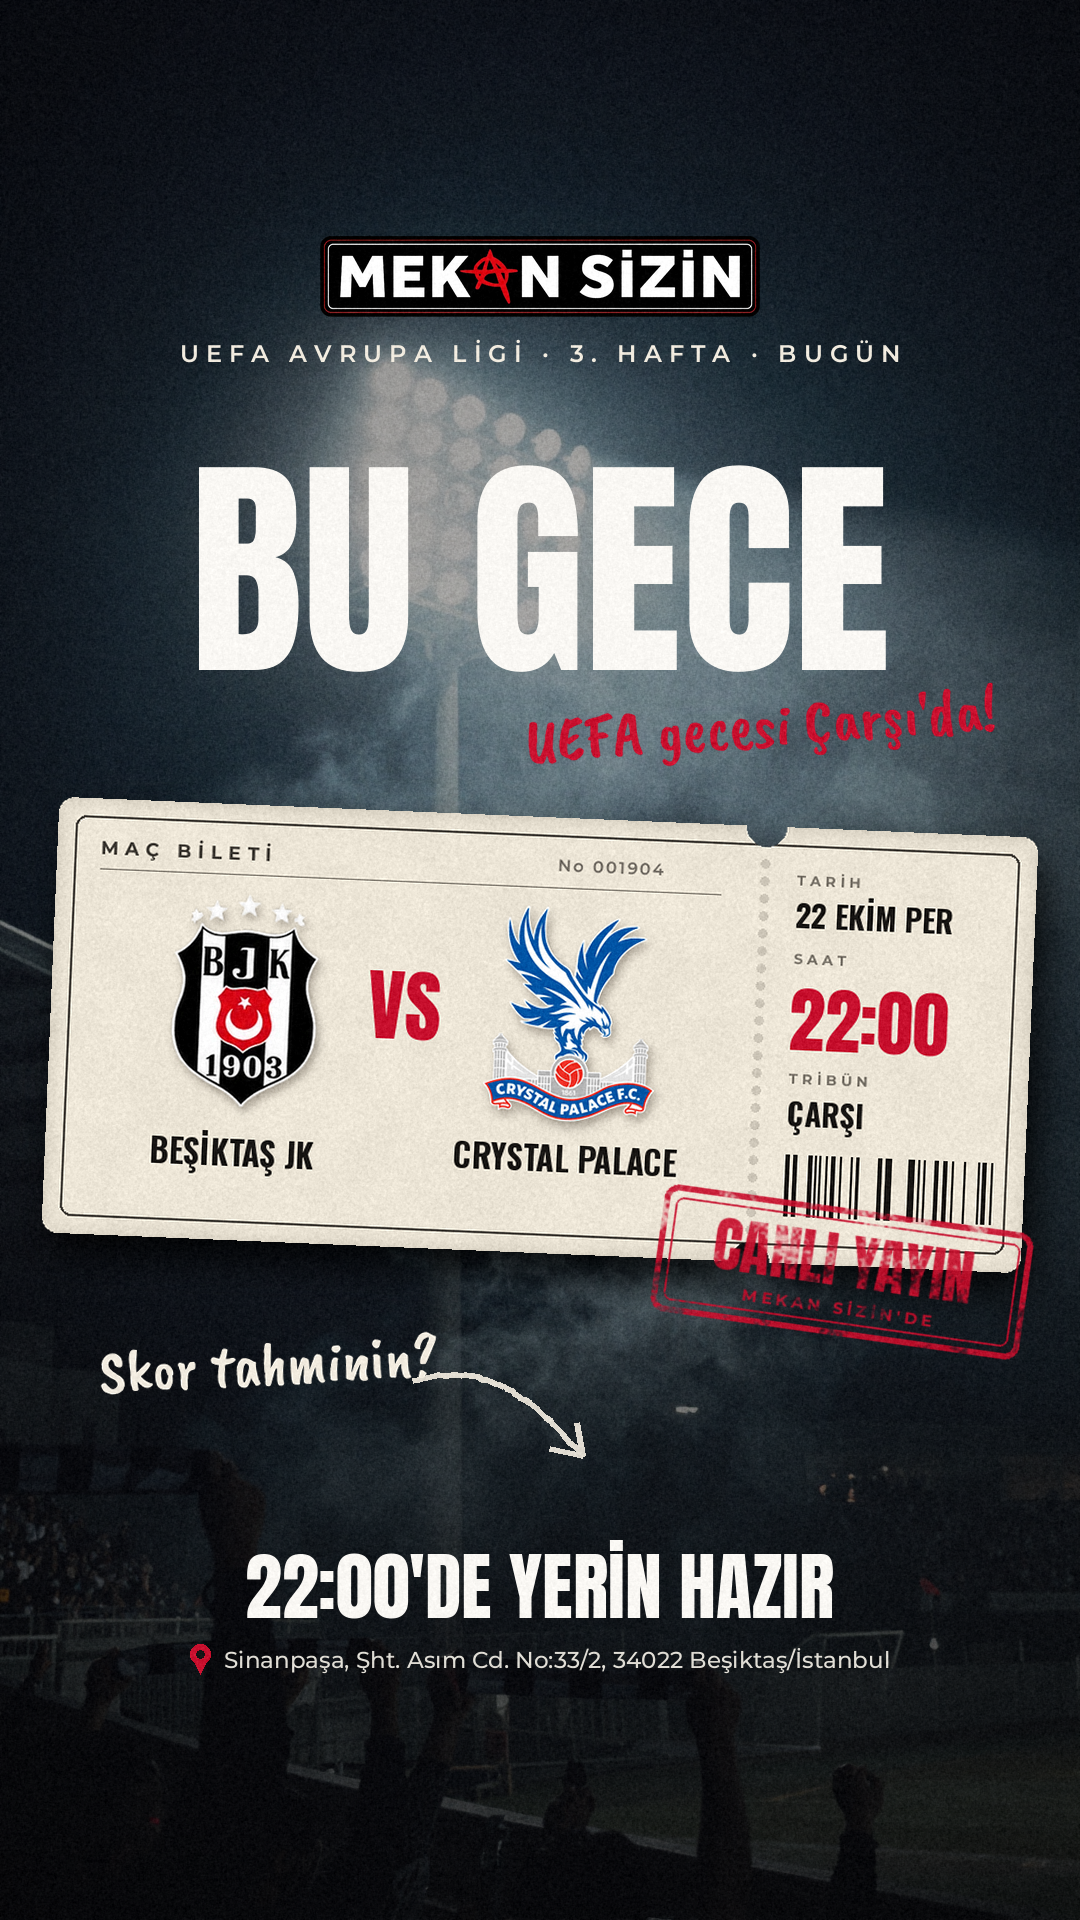
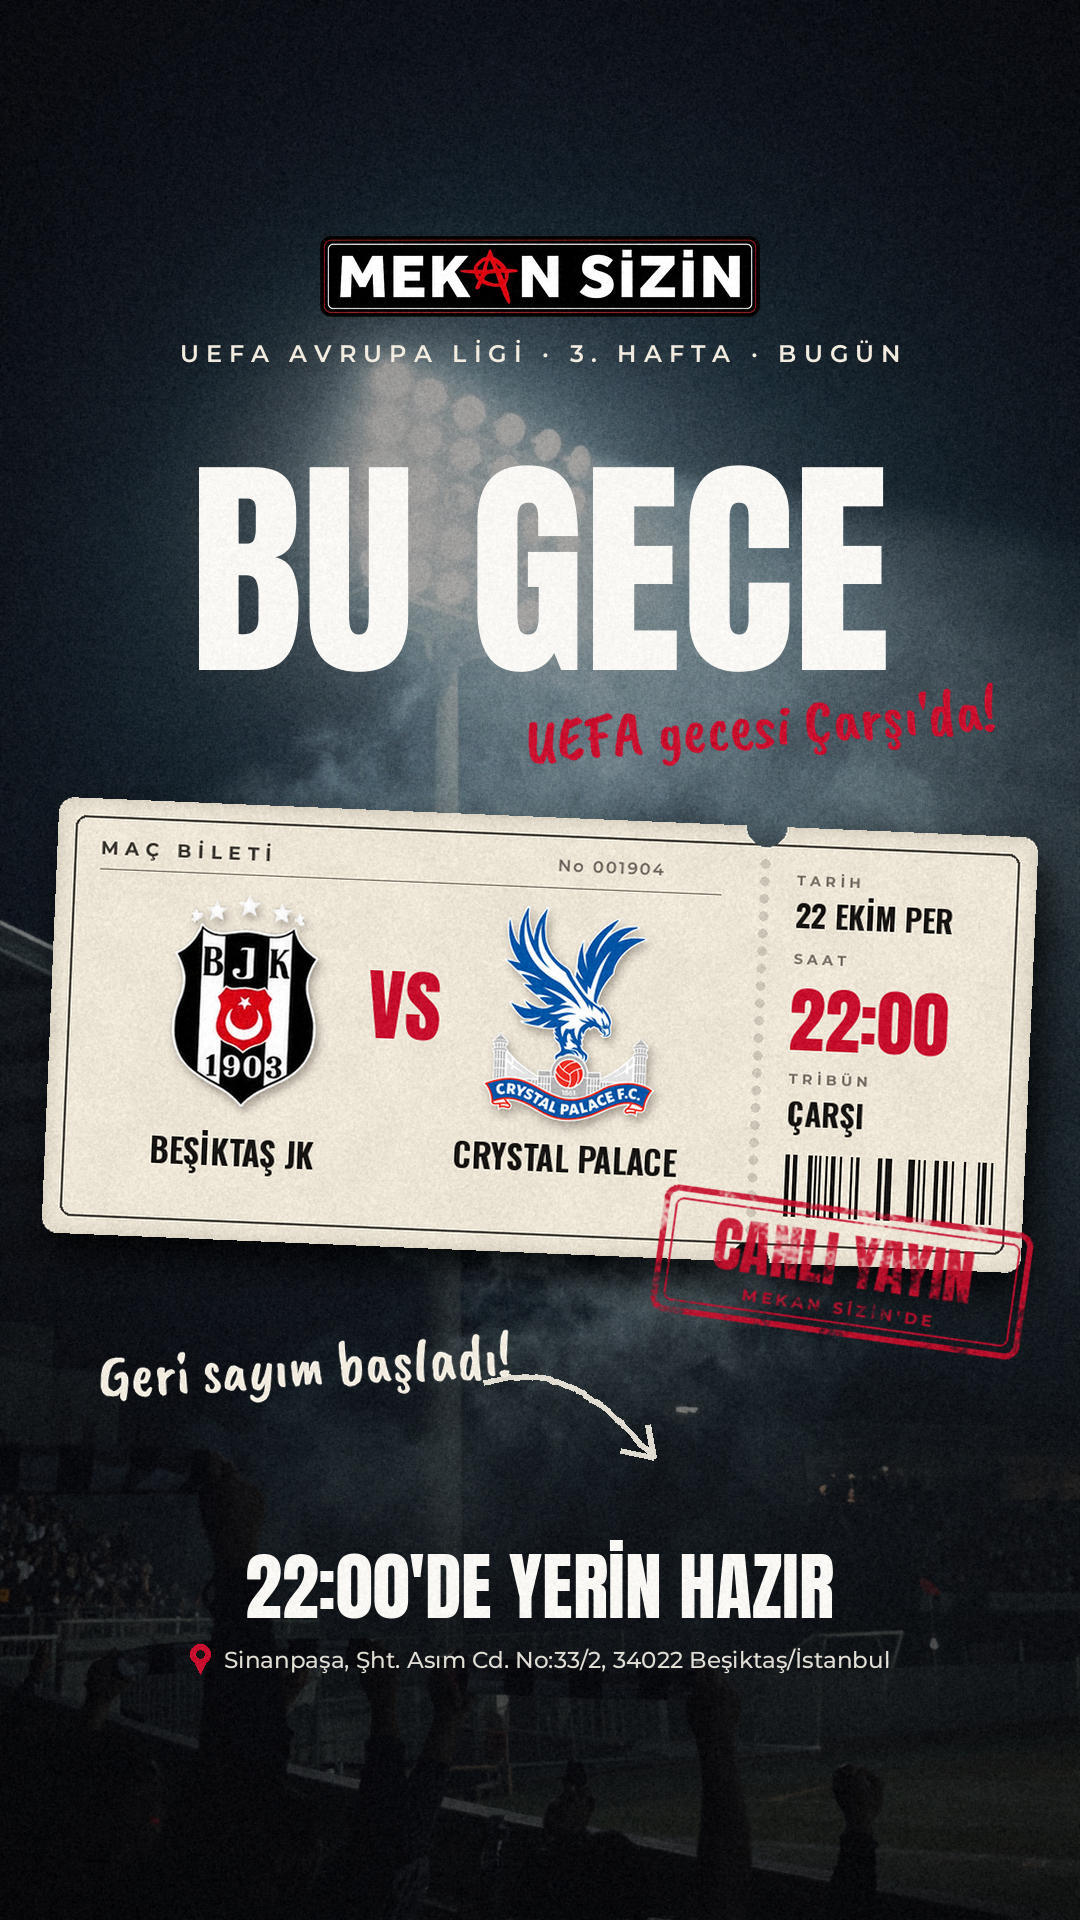
Use the venue's new meze photos in Mekan Sizin week 2 and drop guessing prompts
The best take of each dish is kept under kaynak/ham; rotus.py clones the
plate's own texture over two oil drops, then the week 1 grade is applied.
The duplicate pistachio photo (already on the profile) is replaced. The
match-day scoreboard shows 0-0 instead of '?', stories point at a countdown
and the post-match story no longer asks for score guesses; captions are
rewritten in a relaxed, semi-professional tone with DM booking as the only ask.

Claude-Session: https://claude.ai/code/session_01XJxz6TxayURknP2UowWRAx

Changed region(s): [[0.0917, 0.6875, 0.5806, 0.7812], [0.5806, 0.75, 0.6111, 0.7812]]

diff --git a/mekan-sizin/sablon/rotus.py b/mekan-sizin/sablon/rotus.py
@@ -1,0 +1,67 @@
+"""Mekan Sizin - ham fotoğraflarda küçük leke temizliği (yağ damlası, kırıntı), doğallığı bozmadan.
+
+Kullanım:  python3 rotus.py rotus.json
+Her kayıt: {"kaynak": ham foto, "cikti": temiz foto, "lekeler": [[x, y, yarıçap], ...]} (piksel, kaynak üzerinde).
+Her leke için yakındaki en uygun temiz doku aranır (çevre halkası en çok benzeyen yer) ve yumuşak kenarla
+üstüne kopyalanır; tabak sırrının benekli dokusu korunur, geri kalan her piksel aynen kalır.
+"""
+import json
+import sys
+
+import numpy as np
+from PIL import Image
+
+from mac_bileti import path
+
+
+def best_source(arr, x, y, r):
+    """Offset of the nearby patch whose surrounding ring looks most like the ring around the spot."""
+    h, w = arr.shape[:2]
+    R = round(r * 1.6)
+    yy, xx = np.mgrid[-R:R + 1, -R:R + 1]
+    dist = np.hypot(xx, yy)
+    ring = (dist > r * 1.15) & (dist <= R)
+    tgt = arr[y - R:y + R + 1, x - R:x + R + 1].astype(np.float32)
+    best, best_d = None, None
+    step = max(2, round(r / 3))
+    for dy in range(-4 * R, 4 * R + 1, step):
+        for dx in range(-4 * R, 4 * R + 1, step):
+            if np.hypot(dx, dy) < 2.2 * R:
+                continue
+            sx, sy = x + dx, y + dy
+            if sx - R < 0 or sy - R < 0 or sx + R >= w or sy + R >= h:
+                continue
+            src = arr[sy - R:sy + R + 1, sx - R:sx + R + 1].astype(np.float32)
+            d = float(((src - tgt)[ring] ** 2).mean())
+            if best_d is None or d < best_d:
+                best, best_d = (dx, dy), d
+    return best
+
+
+def clean(img, spots):
+    arr = np.asarray(img.convert("RGB")).copy()
+    out = arr.astype(np.float32)
+    for x, y, r in spots:
+        x, y, r = round(x), round(y), float(r)
+        dx, dy = best_source(arr, x, y, r)
+        R = round(r * 1.6)
+        yy, xx = np.mgrid[-R:R + 1, -R:R + 1]
+        m = np.clip((r * 1.35 - np.hypot(xx, yy)) / (r * 0.35), 0, 1)[..., None]  # soft-edged disc
+        src = arr[y + dy - R:y + dy + R + 1, x + dx - R:x + dx + R + 1].astype(np.float32)
+        tgt = out[y - R:y + R + 1, x - R:x + R + 1]
+        out[y - R:y + R + 1, x - R:x + R + 1] = tgt * (1 - m) + src * m
+    return Image.fromarray(np.clip(out, 0, 255).astype(np.uint8))
+
+
+def main():
+    with open(sys.argv[1], encoding="utf-8") as fh:
+        items = json.load(fh)
+    for item in items:
+        img = Image.open(path(item["kaynak"]))
+        out = clean(img, item.get("lekeler", [])) if item.get("lekeler") else img.convert("RGB")
+        out.save(path(item["cikti"]), quality=95, subsampling=0)
+        print("kaydedildi:", path(item["cikti"]), f"({len(item.get('lekeler', []))} leke)")
+
+
+if __name__ == "__main__":
+    main()

diff --git a/mekan-sizin/sablon/mac_sonu.py b/mekan-sizin/sablon/mac_sonu.py
@@ -3,8 +3,7 @@
 Kullanım:  python3 mac_sonu.py mac-sonu.json EV_SKOR DEPLASMAN_SKOR
 Örnek:     python3 mac_sonu.py ../haftalik-feed-2/ayarlar/1b-trabzonspor-mac-sonu.json 1 2
 "bjk" alanı Beşiktaş'ın hangi satırda olduğunu söyler ("ev_sahibi" ya da "deplasman"); mesaj buna göre
-"galibiyet", "beraberlik" ya da "maglubiyet" olarak seçilir. Alttaki boşluk doğru tahmin edenleri
-etiketlemek için bırakıldı (Instagram'da "Bahset" çıkartması).
+"galibiyet", "beraberlik" ya da "maglubiyet" olarak seçilir. En alttaki el yazısı satırı "cikartma_notu"; "ok": false ise yanına ok çizilmez.
 """
 import json
 import sys
@@ -83,7 +82,8 @@ def main():
     note = handwriting(cfg["cikartma_notu"], 60, CREAM, 3)
     ny = by2 + 218
     img.alpha_composite(note, (86, ny))
-    img.alpha_composite(hand_arrow((210, 120), CREAM), (96 + note.width - 60, ny + note.height // 2))
+    if cfg.get("ok", True):  # arrow pointing at the empty sticker space
+        img.alpha_composite(hand_arrow((210, 120), CREAM), (96 + note.width - 60, ny + note.height // 2))
 
     out = film_grain(img.convert("RGB"), 7.5, seed=9)
     out.save(path(cfg["cikti"]))

diff --git a/mekan-sizin/haftalik-feed-2/PAYLASIM-PLANI.md b/mekan-sizin/haftalik-feed-2/PAYLASIM-PLANI.md
@@ -1,32 +1,31 @@
 # Mekan Sizin – Haftalık Feed 2 (19–25 Ekim 2026)
 
-İlk haftanın düzeni aynen devam ediyor: profilde afiş ve fotoğraf birebir sırayla geliyor (son gönderi Deplasman afişiydi, bu hafta fotoğrafla başlıyor). Maç sonu gönderisi ızgarayı bozmasın diye story olarak paylaşılıyor. 7 gönderi + maç günü ve maç sonu story'leri. Afişler ilk haftanın şablonlarıyla; fotoğraf günleri mekânın yeni görselleriyle doldurulacak.
+İlk haftanın düzeni aynen devam ediyor: profilde afiş ve fotoğraf birebir sırayla geliyor (son gönderi Deplasman afişiydi, bu hafta fotoğrafla başlıyor). Maç sonu gönderisi ızgarayı bozmasın diye story olarak paylaşılıyor. 7 gönderi + maç günü ve maç sonu story'leri.
+
+**Dil:** Biraz profesyonel, biraz salaş. Takipçi sayısı henüz az olduğu için gönderilerde skor tahmini, "yorumlara yaz", "etiketle", "doğru bileni paylaşacağız" gibi katılım istekleri yok; ileride takipçi artınca açılabilir. Tek çağrı rezervasyon: DM.
 
 ## Sıra
 
 | Gün | Tarih | Saat | Paylaşım | Tür | Dosya (`sirali/`) |
 |---|---|---|---|---|---|
-| 1 | Pazartesi 19 Ekim | 13:00 | Fıstıklı meze fotoğrafı (profilde henüz yok) | Fotoğraf | `1-pazartesi-19-ekim-meze-fistikli.jpg` |
-| 1 | Pazartesi 19 Ekim | 14:00 ve 19:30 | Story: Trabzonspor – BJK maç günü + "Skor tahminin?" | Story | `1-story-pazartesi-19-ekim-trabzonspor-mac-gunu.png` |
-| 1 | Pazartesi 19 Ekim | maçtan hemen sonra | Story: Maç sonu (skorbordda gerçek skor, sonuca göre mesaj) | Story | `1-story-pazartesi-19-ekim-mac-sonu-trabzonspor.png` |
+| 1 | Pazartesi 19 Ekim | maçtan önce | Arnavut ciğeri + şakşuka | Fotoğraf | `1-pazartesi-19-ekim-arnavut-cigeri-saksuka.jpg` |
+| 1 | Pazartesi 19 Ekim | 14:00 ve 19:30 | Story: Trabzonspor – BJK maç günü + Geri sayım | Story | `1-story-pazartesi-19-ekim-trabzonspor-mac-gunu.png` |
+| 1 | Pazartesi 19 Ekim | maçtan hemen sonra | Story: Maç sonu (gerçek skor, sonuca göre mesaj) | Story | `1-story-pazartesi-19-ekim-mac-sonu-trabzonspor.png` |
 | 2 | Salı 20 Ekim | 19:00 | "BU PERŞEMBE" maç bileti: Beşiktaş – Crystal Palace (UEFA) | Afiş | `2-sali-20-ekim-uefa-gecesi-crystal-palace.png` |
-| 3 | Çarşamba 21 Ekim | 13:00 | Mekan / meze fotoğrafı (yeni görsel 2) | Fotoğraf | `3-carsamba-21-ekim-mekan-fotografi.jpg` |
-| 4 | Perşembe 22 Ekim | 17:00 | Skor tahmini: Beşiktaş – Crystal Palace (maç günü) | Afiş | `4-persembe-22-ekim-skor-tahmini-crystal-palace.png` |
-| 4 | Perşembe 22 Ekim | 12:00 ve 20:00 | Story: UEFA maç günü | Story | `4-story-persembe-22-ekim-uefa-mac-gunu.png` |
-| 5 | Cuma 23 Ekim | 18:00 | Mekan / meze fotoğrafı ya da Reels (yeni görsel 3) | Fotoğraf | `5-cuma-23-ekim-mekan-fotografi.jpg` |
+| 3 | Çarşamba 21 Ekim | 13:00 | Labne, kuru biber ve kızgın yağ | Fotoğraf | `3-carsamba-21-ekim-labne.jpg` |
+| 4 | Perşembe 22 Ekim | 17:00 | "BU GECE" maç günü skorbordu (0–0): Beşiktaş – Crystal Palace | Afiş | `4-persembe-22-ekim-mac-gunu-crystal-palace.png` |
+| 4 | Perşembe 22 Ekim | 12:00 ve 20:00 | Story: UEFA maç günü + Geri sayım | Story | `4-story-persembe-22-ekim-uefa-mac-gunu.png` |
+| 5 | Cuma 23 Ekim | 18:00 | Yeşil meze, çıtır yufka | Fotoğraf | `5-cuma-23-ekim-yesil-meze.jpg` |
 | 6 | Cumartesi 24 Ekim | 19:00 | "BU PAZARTESİ" maç bileti: Beşiktaş – Başakşehir | Afiş | `6-cumartesi-24-ekim-bu-pazartesi-basaksehir.png` |
-| 7 | Pazar 25 Ekim | 13:00 | Mekan / meze fotoğrafı (yeni görsel 4) | Fotoğraf | `7-pazar-25-ekim-mekan-fotografi.jpg` |
+| 7 | Pazar 25 Ekim | 13:00 | Cacık, bol zeytinyağı | Fotoğraf | `7-pazar-25-ekim-cacik.jpg` |
+
+**Yedekte:** tek tabak Arnavut ciğeri (`yedek-arnavut-cigeri.jpg`) ve tek tabak şakşuka (`yedek-saksuka.jpg`), aynı renk ayarıyla hazır; story'de ya da gelecek hafta kullanılabilir.
 
 **Fikstür:** Trabzonspor – Beşiktaş 19 Ekim Pazartesi 20:00 (Süper Lig 8. hafta, Papara Park); Beşiktaş – Crystal Palace 22 Ekim Perşembe 22:00 (UEFA Avrupa Ligi 3. hafta, Tüpraş Stadyumu); Beşiktaş – Başakşehir 26 Ekim Pazartesi 19:00 (Süper Lig 9. hafta, Tüpraş Stadyumu). Başakşehir maçının saati yayın programı sitelerinden; Cumartesi paylaşmadan önce resmi programdan teyit edin.
 
-## Eksikler
+## Fotoğraflar
 
-Armalar geldi (`sablon/assets/trabzonspor.png`, `crystal-palace.png`, `basaksehir.png`); bütün afiş ve story'ler hazır.
-
-| Eksik | Nereye | Kullanıldığı gönderiler |
-|---|---|---|
-| Maç sonu skoru (bu akşam) | `python3 mac_sonu.py … TS_SKOR BJK_SKOR` | Gün 1 maç sonu story'si |
-| 3 yeni mekan / meze görseli | `haftalik-feed-2/kaynak/yeni-2.jpg` … `yeni-4.jpg` | Gün 3, 5, 7 |
+Mekânın gönderdiği kareler tabak tabak ayrıldı, her tabağın en net karesi seçildi (`kaynak/ham/`). Şakşuka tabağının kenarındaki iki yağ damlası tabağın kendi dokusundan kopyalanarak temizlendi (`ayarlar/rotus.json`), başka hiçbir yere dokunulmadı. Sonra ilk haftanın renk ayarı ve greni uygulandı; cacık karesinde köşeye taşan logo parçası kadrajdan çıkarıldı.
 
 ---
 
@@ -34,99 +33,111 @@ Armalar geldi (`sablon/assets/trabzonspor.png`, `crystal-palace.png`, `basaksehi
 
 Her gönderide konum: **Mekan Sizin / Beşiktaş Çarşı**. Hashtag en fazla 5.
 
-### Gün 1 – Mekan fotoğrafı (Pazartesi 13:00)
+### Gün 1 – Arnavut ciğeri + şakşuka (Pazartesi, maçtan önce)
 ```
-Maç günü masası hazır. 🦅
+Ciğer sıcak, şakşuka zeytinyağında, Kartal Trabzon'da. 🦅
 
-Bu akşam 20:00'de Trabzonspor – Beşiktaş canlı yayında. Yerini ayırtmak için DM'den yaz.
+Bu akşam 20:00'de Trabzonspor – Beşiktaş Mekan Sizin'de canlı yayında. Masa kurulu, gelen gelsin.
 
-#Beşiktaş #BeşiktaşÇarşı #Meze #MaçGünü #MekanSizin
+📍 Beşiktaş Çarşı · Rezervasyon için DM
+
+#Beşiktaş #BeşiktaşÇarşı #ArnavutCiğeri #MaçGünü #MekanSizin
 ```
-**Story (14:00):** maç günü story'si + **Soru** çıkartması "Skor tahminin?" · **(19:30):** aynı story + **Geri sayım** (20:00).
-**Maç sonu story'si:** Maç biter bitmez skoru yazın, story hemen üretilir (galibiyet: "Kartal kazandı!", beraberlik: "Bir puan cepte!", mağlubiyet: "Kafamız dik, Çarşı burada!"). Alttaki "Skoru bilenler:" boşluğuna **Bahset** çıkartmasıyla doğru tahmin edenleri ekleyin.
+Maç başladıktan sonra paylaşırsanız ikinci satırı şöyle değiştirin: "Maç başladı, Trabzonspor – Beşiktaş Mekan Sizin'de canlı yayında."
+Alternatif metin: Gazete kupürlü masada iki tabak: soğan salatalı Arnavut ciğeri ve sivri biberli şakşuka.
+
+**Story (14:00 ve 19:30):** maç günü story'si + **Geri sayım** çıkartması (20:00) + konum.
+**Maç sonu story'si:** Maç biter bitmez skoru yazın, story bir dakikada üretilir. El yazısı sonuca göre: galibiyette "Kartal kazandı!", beraberlikte "Bir puan cepte!", mağlubiyette "Kafamız dik, Çarşı burada!". Altta "Sıradaki: Perşembe 22:00" ve "Perşembe yine buradayız!".
 
 ### Gün 2 – UEFA hatırlatma (Salı 19:00)
 ```
-Perşembe UEFA gecesi, Kartal evinde! 🦅
+Perşembe akşamı Çarşı'da UEFA havası var. ⚫⚪
 
 Beşiktaş – Crystal Palace
-UEFA Avrupa Ligi · 3. hafta · 22 Ekim Perşembe 22:00
+UEFA Avrupa Ligi · 3. hafta · 22 Ekim Perşembe · 22:00
 
-Maç canlı yayında, tribün havası Mekan Sizin'de. Yerini ayırtmak için DM'den yaz.
+Maç canlı yayında; mezeler bizden, tezahürat sizden. Masanızı şimdiden ayırtın, DM'den yazmanız yeterli.
 
 #Beşiktaş #UEFAAvrupaLigi #BeşiktaşÇarşı #MaçKeyfi #MekanSizin
 ```
 Alternatif metin: Maç bileti tasarımı: Beşiktaş – Crystal Palace, 22 Ekim Perşembe 22:00, UEFA gecesi Mekan Sizin'de canlı yayında.
 Story: gönderiyi paylaşıp **Geri sayım** (22 Ekim 22:00).
 
-### Gün 3 – Mekan fotoğrafı (Çarşamba 13:00)
+### Gün 3 – Labne (Çarşamba 13:00)
 ```
-Yarın UEFA gecesi; mezeler taze, masan hazır. 🍽
+Labne, üstüne kuru biber ve kızgın yağ. Lafı uzatmaya gerek yok. 🌶
 
-Perşembe kiminle geliyorsun? Etiketle 👇
+Yarın akşam UEFA gecesi; mezeler hazırlanıyor, masalar kuruluyor.
 
-#Meze #MezeKeyfi #BeşiktaşÇarşı #MaçÖncesi #MekanSizin
+📍 Beşiktaş Çarşı · Her gün 12:00–02:00
+
+#Meze #MezeKeyfi #BeşiktaşÇarşı #Beşiktaş #MekanSizin
 ```
+Alternatif metin: Siyah tabakta kuru biberli ve kızgın yağlı labne, gazete kupürlü masada.
 
-### Gün 4 – Skor tahmini (Perşembe 17:00) + maç günü story'si
-**12:00 – Story:** UEFA maç günü story'si + **Soru** "Skor tahminin?"
+### Gün 4 – Maç günü (Perşembe 17:00) + maç günü story'si
+**12:00 – Story:** UEFA maç günü story'si + **Geri sayım** (22:00).
 **17:00 – Gönderi:**
 ```
-Bu gece UEFA gecesi! 🦅
+Skorbord sıfırlandı, mezeler masada. Bu gece UEFA gecesi! 🦅
 
-Beşiktaş – Crystal Palace · 22:00 · canlı yayında
+Beşiktaş – Crystal Palace · 22:00 · Mekan Sizin'de canlı yayında
 
-Skor tahminini yorumlara yaz; maçtan sonra doğru bilenleri story'de paylaşacağız.
+Erken gelen iyi masayı kapar; yerinizi DM'den ayırtabilirsiniz.
 
 #Beşiktaş #BeşiktaşCrystalPalace #UEFAAvrupaLigi #BeşiktaşÇarşı #MekanSizin
 ```
-Alternatif metin: Eski stat skorbordu tasarımı: Beşiktaş ? – ? Crystal Palace, skor tahmini, 22:00.
-**20:00 – Story:** aynı story + **Geri sayım** (22:00). Maçtan sonra doğru tahmin edenleri story'de etiketleyin.
+Alternatif metin: Eski stat skorbordu tasarımı: Beşiktaş 0 – 0 Crystal Palace, başlama 22:00, UEFA gecesi Mekan Sizin'de.
+**20:00 – Story:** aynı story + **Geri sayım** (22:00). Maç sırasında mekândaki tribün havasını kısa videolarla story'de paylaşın.
 
-### Gün 5 – Mekan fotoğrafı / Reels (Cuma 18:00)
+### Gün 5 – Yeşil meze (Cuma 18:00)
 ```
-Cuma akşamı Çarşı'da: mezeler taze, sohbet koyu. ⚫⚪
+Cuma akşamı, yeşilin en güzel tonu masada. 🌿
 
-Hafta sonu planın hazır mı? Yerini DM'den ayırt.
+Haftanın yorgunluğunu Çarşı'da atın; mezeler taze, sohbet koyu, mekân sizin.
+
+📍 Beşiktaş Çarşı · Rezervasyon için DM
 
 #Beşiktaş #BeşiktaşÇarşı #CumaAkşamı #Meze #MekanSizin
 ```
-Yeni görsellerden biri video ise bu günü Reels yapın (trend bir ses seçin).
+Alternatif metin: Desenli yeşil tabakta iki top yeşil meze, üzerlerinde çıtır yufka üçgenleri.
 
 ### Gün 6 – Başakşehir hatırlatma (Cumartesi 19:00)
 ```
-Hafta Kartal'la başlıyor! 🦅
+Yeni hafta Kartal'la açılıyor. 🦅
 
 Beşiktaş – Başakşehir
-Süper Lig · 9. hafta · 26 Ekim Pazartesi 19:00
+Süper Lig · 9. hafta · 26 Ekim Pazartesi · 19:00
 
-Pazartesi akşamı maç canlı yayında; yerini şimdiden DM'den ayırt.
+Pazartesi sendromuna en iyi ilaç: maç, meze, Çarşı. Masanızı şimdiden ayırtın.
 
 #Beşiktaş #BeşiktaşBaşakşehir #BeşiktaşÇarşı #MaçKeyfi #MekanSizin
 ```
 Alternatif metin: Maç bileti tasarımı: Beşiktaş – Başakşehir, 26 Ekim Pazartesi 19:00, maç Mekan Sizin'de canlı yayında.
 
-### Gün 7 – Mekan fotoğrafı (Pazar 13:00)
+### Gün 7 – Cacık (Pazar 13:00)
 ```
-Pazar keyfi Çarşı'da. ☀ 12:00'den 02:00'ye kadar açığız.
+Pazar dediğin sakin geçer: bir tabak cacık, bol zeytinyağı, uzun muhabbet. ☀
 
-Yarın 19:00'da Beşiktaş – Başakşehir; masan hazır.
+12:00'den 02:00'ye açığız. Yarın 19:00'da Beşiktaş – Başakşehir; masa hazır.
 
 #Beşiktaş #BeşiktaşÇarşı #PazarKeyfi #Meze #MekanSizin
 ```
+Alternatif metin: Zeytinyağlı ve ince kıyılmış salatalıklı cacık, gazete kupürlü masada.
 
 ## Dikkat
 
-İlk haftadaki kurallar geçerli: alkol adı/görseli/fiyatı yok, "dev ekran" yazısı yok, UEFA maçları "UEFA gecesi" diye geçiyor, hafta içi kampanyası yok.
+İlk haftadaki kurallar geçerli: alkol adı/görseli/fiyatı yok, "dev ekran" yazısı yok, UEFA maçları "UEFA gecesi" diye geçiyor, hafta içi kampanyası yok. Yemek adları (labne, yeşil meze, cacık) fotoğraflardan tahmin; menüdeki adları farklıysa açıklamalarda değiştirin.
 
 ## Yeniden üretme (`sablon/` klasöründen)
 
 ```
+python3 rotus.py ../haftalik-feed-2/ayarlar/rotus.json
+python3 foto.py ../haftalik-feed-2/ayarlar/fotograflar.json
 python3 story.py ../haftalik-feed-2/ayarlar/1a-trabzonspor-story.json
 python3 mac_sonu.py ../haftalik-feed-2/ayarlar/1b-trabzonspor-mac-sonu.json TS_SKOR BJK_SKOR
 python3 mac_bileti.py ../haftalik-feed-2/ayarlar/2-crystal-palace-hatirlatma.json
-python3 skor_tahmini.py ../haftalik-feed-2/ayarlar/4-crystal-palace-skor-tahmini.json
+python3 skor_tahmini.py ../haftalik-feed-2/ayarlar/4-crystal-palace-mac-gunu.json
 python3 story.py ../haftalik-feed-2/ayarlar/4a-crystal-palace-story.json
 python3 mac_bileti.py ../haftalik-feed-2/ayarlar/6-basaksehir-hatirlatma.json
-python3 foto.py ../haftalik-feed-2/ayarlar/fotograflar.json
 ```
